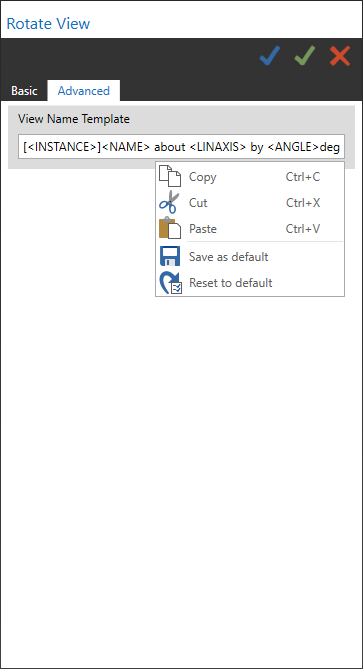
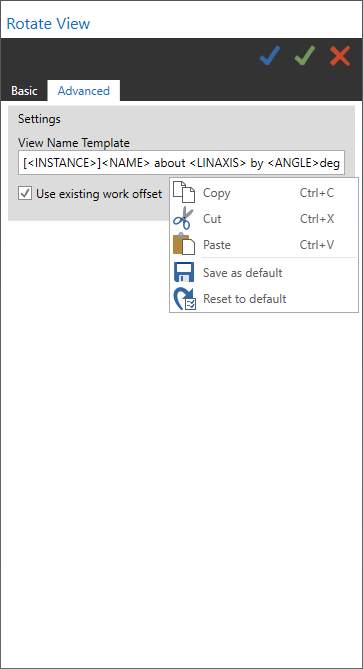
Added the ability for the source view's work offset to be used in the created views Updated version information

diff --git a/RotatedViews/Views/MainView.xaml b/RotatedViews/Views/MainView.xaml
@@ -180,9 +180,8 @@
                 </Button.Template>
                 <Button.ToolTip>
                     <StackPanel>
-                        <TextBlock FontWeight="Bold" 
+                        <TextBlock FontWeight="Bold"
                                    Text="{x:Static resources:UIStrings.CloseToolTipTitle}"/>
-                        <TextBlock Text="{x:Static resources:UIStrings.CloseToolTipBody}"/>
                     </StackPanel>
                 </Button.ToolTip>
             </Button>
@@ -215,7 +214,6 @@
                     <StackPanel>
                         <TextBlock FontWeight="Bold" 
                                    Text="{x:Static resources:UIStrings.OkToolTipTitle}"/>
-                        <TextBlock Text="{x:Static resources:UIStrings.OkToolTipBody}"/>
                     </StackPanel>
                 </Button.ToolTip>
             </Button>
@@ -246,7 +244,6 @@
                     <StackPanel>
                         <TextBlock FontWeight="Bold" 
                                    Text="{x:Static resources:UIStrings.ApplyToolTipTitle}"/>
-                        <TextBlock Text="{x:Static resources:UIStrings.ApplyToolTipBody}"/>
                     </StackPanel>
                 </Button.ToolTip>
             </Button>
@@ -476,13 +473,15 @@
                                 Background="Gainsboro"
                                 Margin="5,2.5">
 
-                        <TextBlock Text="{x:Static resources:UIStrings.ViewNameLabel}"
+                        <TextBlock Text="{x:Static resources:UIStrings.SettingsLabel}"
                                    Margin="10,5,10,5"
                                    Foreground="Black"/>
                         
-                        <DockPanel Margin="10,2.5,10,10"
-                                   LastChildFill="True">
-                          
+                        <StackPanel Margin="10,2.5,10,10">
+
+                            <TextBlock Text="{x:Static resources:UIStrings.ViewNameLabel}"
+                                   Foreground="Black"/>
+
                             <TextBox x:Name="ViewNameTemplateTextBox"
                                      Grid.Row="0"
                                      Grid.Column="1"                                 
@@ -536,7 +535,11 @@
                                 
                             </TextBox>
 
-                        </DockPanel>
+                            <CheckBox Content="{x:Static resources:UIStrings.UseExistingWorkOffsetLabel}"
+                                      Margin="0,10"
+                                      IsChecked="{Binding IsUseExistingWorkoffset}"/>
+
+                        </StackPanel>
                     </StackPanel>
                     
                 </Grid>

diff --git a/RotatedViews/Services/ViewService.cs b/RotatedViews/Services/ViewService.cs
@@ -16,18 +16,18 @@ namespace RotatedViews.Services
     public class ViewService : IViewService
     {
 
-        public void CreateRotatedViews(MCView view, ViewAxis selectedAxis, int number, double angle, DistanceType distanceTypep, string viewNameTemplate)
+        public void CreateRotatedViews(MCView view, ViewAxis selectedAxis, int number, double angle, DistanceType distanceType, string viewNameTemplate, bool useExistingWorkOffset)
         {
             var rotationAxis = GetRotationAxis(selectedAxis, view.ViewMatrix);
 
-            if (distanceTypep == DistanceType.TotalSweep)
+            if (distanceType == DistanceType.TotalSweep)
             {
                 angle /= number;
-                RotateView(view, rotationAxis, number, angle, viewNameTemplate);
+                RotateView(view, rotationAxis, number, angle, viewNameTemplate, useExistingWorkOffset);
             }
             else
             {
-                RotateView(view, rotationAxis, number, angle, viewNameTemplate);
+                RotateView(view, rotationAxis, number, angle, viewNameTemplate, useExistingWorkOffset);
             }
         }
 
@@ -80,7 +80,7 @@ namespace RotatedViews.Services
             }
         }
 
-        private void RotateView(MCView view, RotationAxis rotationAxis, int number, double angle, string viewNameTemplate)
+        private void RotateView(MCView view, RotationAxis rotationAxis, int number, double angle, string viewNameTemplate, bool useExistingWorkOffset)
         {
             var instance = 1;
             var initialAngle = angle;
@@ -100,6 +100,11 @@ namespace RotatedViews.Services
                     ViewOrigin = view.ViewOrigin,
                     ViewMatrix = CreateMatrix(view.ViewMatrix, rotationAxis.Axis, angle)
                 };
+
+                if (useExistingWorkOffset)
+                {
+                    rotatedView.WorkOffsetNumber = view.WorkOffsetNumber;
+                }
 
                 rotatedView.Commit();
 

diff --git a/RotatedViews/ViewModels/MainViewViewModel.cs b/RotatedViews/ViewModels/MainViewViewModel.cs
@@ -38,6 +38,8 @@
 
         private string viewNameTemplate;
 
+        private bool isUseExistingWorkoffset;
+
         #endregion
 
         #region Public Properties
@@ -117,6 +119,16 @@
             }
         }
 
+        public bool IsUseExistingWorkoffset
+        {
+            get => this.isUseExistingWorkoffset;
+            set
+            {
+                this.isUseExistingWorkoffset = value;
+                OnPropertyChanged();
+            }
+        }
+
         #endregion
 
         #region Construction
@@ -146,6 +158,8 @@
 
             this.ViewNameTemplate = settingsService.GetDefaultViewNameTemplate();
 
+            this.IsUseExistingWorkoffset = settingsService.GetDefaultUseExistingWorkOffsetSetting();
+
         }
 
         #endregion
@@ -173,9 +187,12 @@
                                            NumberOfViews,
                                            RotationAngle,
                                            SelectedDistanceType,
-                                           ViewNameTemplate);
+                                           ViewNameTemplate,
+                                           IsUseExistingWorkoffset);
 
             RefreshViewList();
+
+            settingsService.SaveUseExistingWorkOffsetSettingAsDefault(IsUseExistingWorkoffset);
         }
 
         private void OnOkCommand(object parameter)
@@ -187,9 +204,12 @@
                                            NumberOfViews, 
                                            RotationAngle,
                                            SelectedDistanceType,
-                                           ViewNameTemplate);
+                                           ViewNameTemplate,
+                                           IsUseExistingWorkoffset);
 
             EraseSelectedView();
+
+            settingsService.SaveUseExistingWorkOffsetSettingAsDefault(IsUseExistingWorkoffset);
 
             view?.Close();
         }

diff --git a/RotatedViews/Properties/Settings.Designer.cs b/RotatedViews/Properties/Settings.Designer.cs
@@ -12,7 +12,7 @@ namespace RotatedViews.Properties {
     
     
     [global::System.Runtime.CompilerServices.CompilerGeneratedAttribute()]
-    [global::System.CodeDom.Compiler.GeneratedCodeAttribute("Microsoft.VisualStudio.Editors.SettingsDesigner.SettingsSingleFileGenerator", "15.9.0.0")]
+    [global::System.CodeDom.Compiler.GeneratedCodeAttribute("Microsoft.VisualStudio.Editors.SettingsDesigner.SettingsSingleFileGenerator", "16.8.1.0")]
     internal sealed partial class Settings : global::System.Configuration.ApplicationSettingsBase {
         
         private static Settings defaultInstance = ((Settings)(global::System.Configuration.ApplicationSettingsBase.Synchronized(new Settings())));
@@ -32,6 +32,18 @@ namespace RotatedViews.Properties {
             }
             set {
                 this["defaultViewNameTemplate"] = value;
+            }
+        }
+        
+        [global::System.Configuration.UserScopedSettingAttribute()]
+        [global::System.Diagnostics.DebuggerNonUserCodeAttribute()]
+        [global::System.Configuration.DefaultSettingValueAttribute("False")]
+        public bool defaultUseExistingWorkOffset {
+            get {
+                return ((bool)(this["defaultUseExistingWorkOffset"]));
+            }
+            set {
+                this["defaultUseExistingWorkOffset"] = value;
             }
         }
     }

diff --git a/RotatedViews/Services/SettingsService.cs b/RotatedViews/Services/SettingsService.cs
@@ -8,9 +8,20 @@ namespace RotatedViews.Services
 {
     public class SettingsService : ISettingsService
     {
+        public bool GetDefaultUseExistingWorkOffsetSetting()
+        {
+            return Properties.Settings.Default.defaultUseExistingWorkOffset;
+        }
+
         public string GetDefaultViewNameTemplate()
         {
             return Properties.Settings.Default.defaultViewNameTemplate;
+        }
+
+        public void SaveUseExistingWorkOffsetSettingAsDefault(bool useExistingWorkOffset)
+        {
+            Properties.Settings.Default.defaultUseExistingWorkOffset = useExistingWorkOffset;
+            Save();
         }
 
         public void SaveViewNameTemplateAsDefault(string viewNameTemplate)
@@ -22,7 +33,6 @@ namespace RotatedViews.Services
         private void Save()
         {
             Properties.Settings.Default.Save();
-
         }
     }
 }

diff --git a/RotatedViews/Resources/UIStrings.Designer.cs b/RotatedViews/Resources/UIStrings.Designer.cs
@@ -286,6 +286,15 @@ namespace RotatedViews.Resources {
         }
         
         /// <summary>
+        ///   Looks up a localized string similar to Use existing work offset.
+        /// </summary>
+        public static string UseExistingWorkOffsetLabel {
+            get {
+                return ResourceManager.GetString("UseExistingWorkOffsetLabel", resourceCulture);
+            }
+        }
+        
+        /// <summary>
         ///   Looks up a localized string similar to View Name Template.
         /// </summary>
         public static string ViewNameLabel {

diff --git a/RotatedViews/Services/IViewService.cs b/RotatedViews/Services/IViewService.cs
@@ -9,7 +9,7 @@ namespace RotatedViews.Services
 {
     public interface IViewService
     {
-        void CreateRotatedViews(MCView View, ViewAxis selectedAxis, int Number, double Angle, DistanceType distanceType, string planeNameTemplate);
+        void CreateRotatedViews(MCView View, ViewAxis selectedAxis, int Number, double Angle, DistanceType distanceType, string planeNameTemplate, bool useExistingWorkoffset);
 
         MCView GetCurrentConstructionView();
 

diff --git a/RotatedViews/Properties/AssemblyInfo.cs b/RotatedViews/Properties/AssemblyInfo.cs
@@ -32,5 +32,5 @@ using System.Runtime.InteropServices;
 // You can specify all the values or you can default the Build and Revision Numbers
 // by using the '*' as shown below:
 // [assembly: AssemblyVersion("1.0.*")]
-[assembly: AssemblyVersion("1.0.9.0")]
-[assembly: AssemblyFileVersion("1.0.9.0")]
+[assembly: AssemblyVersion("1.0.10.0")]
+[assembly: AssemblyFileVersion("1.0.10.0")]

diff --git a/RotatedViews/Services/ISettingsService.cs b/RotatedViews/Services/ISettingsService.cs
@@ -10,6 +10,10 @@ namespace RotatedViews.Services
     {
         string GetDefaultViewNameTemplate();
 
+        bool GetDefaultUseExistingWorkOffsetSetting();
+
+        void SaveUseExistingWorkOffsetSettingAsDefault(bool useExistingWorkOffset);
+
         void SaveViewNameTemplateAsDefault(string viewNameTemplate);
     }
 }
